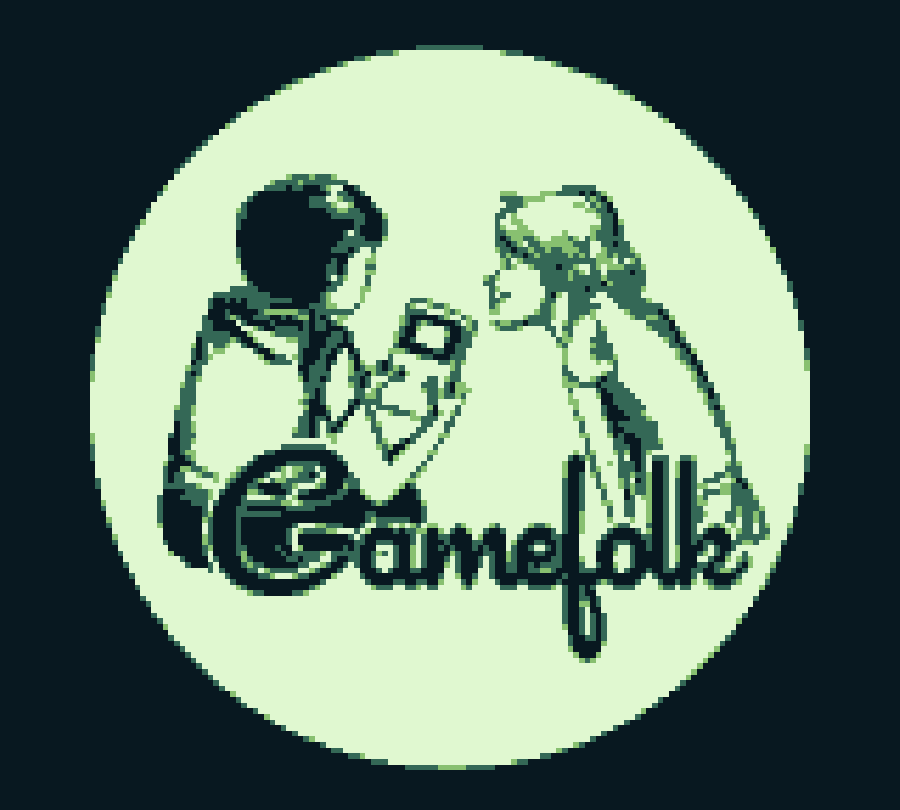
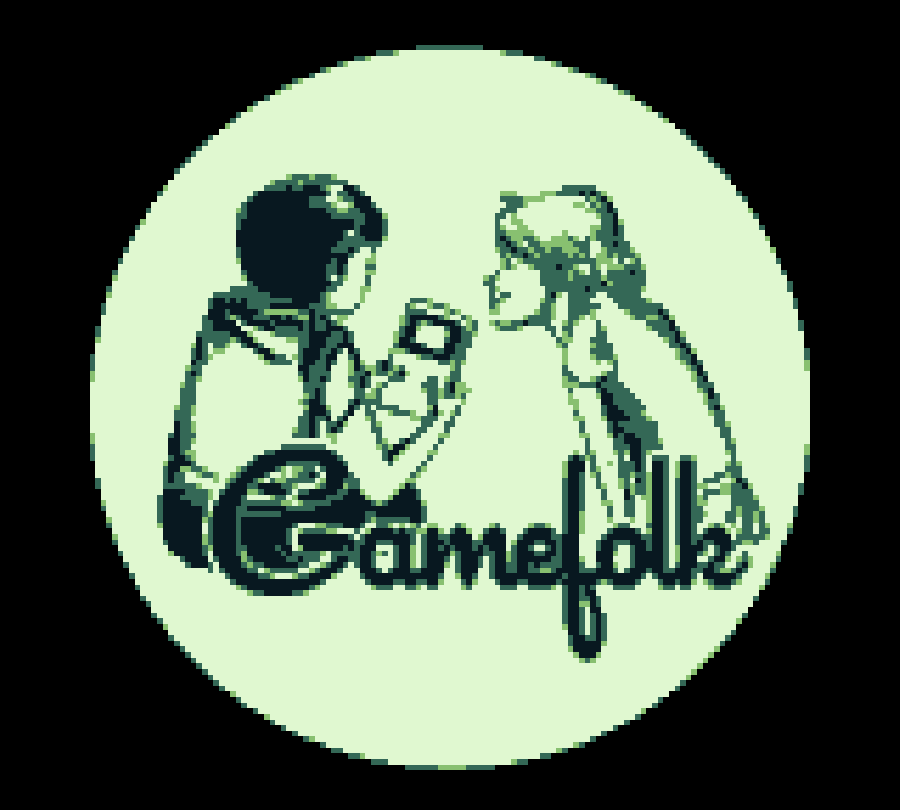
add black background to hero

diff --git a/gamefolk/templates/general/index.html b/gamefolk/templates/general/index.html
@@ -1,10 +1,12 @@
 {% extends "base.html" %}
 
 {% block content %}
-<div class="row">
-  <div class="small-8 large-8 small-centered columns">
-    <div class="logo">
-      <img alt="gamefolk logo modern" src="{{ url_for('static', filename='img/gamefolk.png') }}">
+<div class="homepage-hero">
+  <div class="row">
+    <div class="small-12 large-9 small-centered columns">
+      <div class="logo">
+        <img alt="gamefolk logo modern" src="{{ url_for('static', filename='img/gamefolk.png') }}">
+      </div>
     </div>
   </div>
 </div>

diff --git a/gamefolk/static/css/styles.css b/gamefolk/static/css/styles.css
@@ -34,6 +34,10 @@
   }
 }
 
+.homepage-hero {
+  background-color: black;
+}
+
 .logo {
   background-image: url('/static/img/gamefolk_retro.png');
   background-size: 100% 100%;
